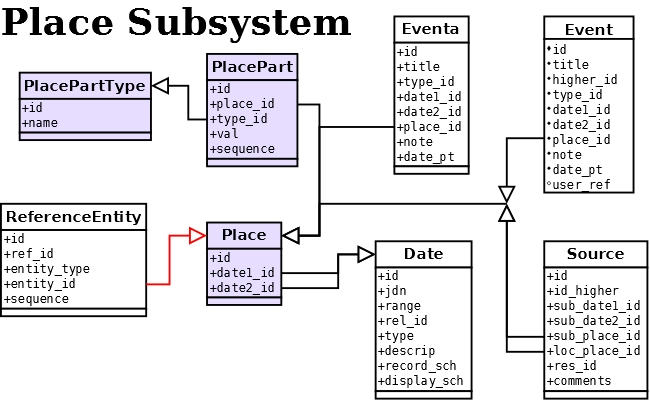
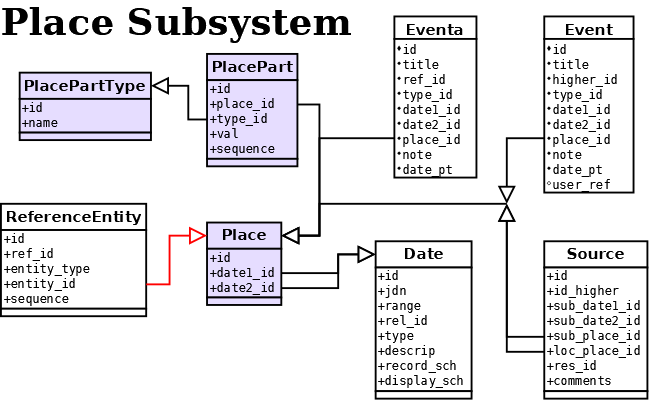
rec Library, update database to version TFPD-0.0.10.18.
Update website and diagrams.

Changed region(s): [[0.4923, 0.03, 0.7385, 0.45]]

diff --git a/website/db/dbdesign.htm b/website/db/dbdesign.htm
@@ -357,6 +357,11 @@
      <td>The name of the Event, such as "Marriage of John Smith and Mary Jones".</td>
     </tr>
     <tr>
+     <td>ref_id</td>
+     <td>Integer Not null FK</td>
+     <td>The Reference Document that was the source of the Eventa.</td>
+    </tr>
+    <tr>
      <td>type_id</td>
      <td>Integer Not null FK</td>
      <td>Unique identifier that indicates to which Event Type this eventa belongs.</td>
@@ -1158,7 +1163,7 @@
     <tr>
      <td>entity_type</td>
      <td>Integer</td>
-     <td>A value indicating the Entity type, 1=Source, 2=Event, 3=Place, 4=Date, 5=Relationship, 6=Attribute</td>
+     <td>A value indicating the Entity type, 1=Source, 3=Place, 4=Date, 7=Name</td>
     </tr>
     <tr>
      <td>entity_id</td>

diff --git a/src/rec/recUpgrade.cpp b/src/rec/recUpgrade.cpp
@@ -41,8 +41,8 @@
 const int recVerMajor    = 0;
 const int recVerMinor    = 0;
 const int recVerRev      = 10;
-const int recVerTest     = 17;                              // <<======<<<<
-const wxStringCharType* recVerStr = wxS("TFPD-0.0.10.17");  // <<======<<<<
+const int recVerTest     = 18;                              // <<======<<<<
+const wxStringCharType* recVerStr = wxS("TFPD-0.0.10.18");  // <<======<<<<
 
 //============================================================================
 //                 Code to upgrade old versions
@@ -697,7 +697,7 @@ void UpgradeTest0_0_10_15to0_0_10_16()
 
 void UpgradeTest0_0_10_16to0_0_10_17()
 {
-    // Version 0.0.10.16 to 0.0.10.16
+    // Version 0.0.10.16 to 0.0.10.17
     // Add EventType and EventTypeRole records for Media Event.
 
     char* query =
@@ -709,6 +709,45 @@ void UpgradeTest0_0_10_16to0_0_10_17()
         "INSERT INTO EventTypeRole (id, type_id, prime, official, name) VALUES(-90, -23, 0, 0, 'Commentator');\n"
 
         "UPDATE Version SET test=17 WHERE id=1;\n"
+        "COMMIT;\n"
+        ;
+    recDb::GetDb()->ExecuteUpdate( query );
+}
+
+void UpgradeTest0_0_10_17to0_0_10_18()
+{
+    // Version 0.0.10.17 to 0.0.10.18
+    // Add ref_id field to Eventa records.
+    // Remove Eventa records from ReferenceEntity table.
+
+    char* query =
+        "BEGIN;\n"
+
+        "ALTER TABLE Eventa RENAME TO OldEventa;\n"
+        "CREATE TABLE Eventa (\n"
+        "  id INTEGER PRIMARY KEY,\n"
+        "  title TEXT NOT NULL,\n"
+        "  ref_id INTEGER NOT NULL REFERENCES Reference(id),\n"
+        "  type_id INTEGER NOT NULL REFERENCES EventType(id),\n"
+        "  date1_id INTEGER NOT NULL,\n"
+        "  date2_id INTEGER NOT NULL,\n"
+        "  place_id INTEGER NOT NULL,\n"
+        "  note TEXT NOT NULL,\n"
+        "  date_pt INTEGER NOT NULL\n"
+        ");\n"
+
+        "INSERT INTO Eventa\n"
+        " (id, title, ref_id, type_id, date1_id, date2_id,\n"
+        "  place_id, note, date_pt)\n"
+        " SELECT E.id, E.title, RE.ref_id, E.type_id, E.date1_id,\n"
+        "  E.date2_id, E.place_id, E.note, E.date_pt\n"
+        " FROM OldEventa E, ReferenceEntity RE\n"
+        " WHERE E.id=RE.entity_id AND RE.entity_type=2;\n"
+        "DROP TABLE OldEventa;\n"
+
+        "DELETE FROM ReferenceEntity WHERE entity_type=2;\n"
+
+        "UPDATE Version SET test=18 WHERE id=1;\n"
         "COMMIT;\n"
         ;
     recDb::GetDb()->ExecuteUpdate( query );
@@ -735,6 +774,7 @@ void UpgradeRev0_0_10toCurrent( int test )
     case 14: UpgradeTest0_0_10_14to0_0_10_15();
     case 15: UpgradeTest0_0_10_15to0_0_10_16();
     case 16: UpgradeTest0_0_10_16to0_0_10_17();
+    case 17: UpgradeTest0_0_10_17to0_0_10_18();
     }
 }
 

diff --git a/src/rec/recDatabaseCreate.h b/src/rec/recDatabaseCreate.h
@@ -85,6 +85,7 @@ static const char* createdb =  /* recCreate.sql */
  "CREATE TABLE Eventa (\n"
  "  id INTEGER PRIMARY KEY,\n"
  "  title TEXT NOT NULL,\n"
+ "  ref_id INTEGER NOT NULL REFERENCES Reference(id),\n"
  "  type_id INTEGER NOT NULL REFERENCES EventType(id),\n"
  "  date1_id INTEGER NOT NULL,\n"
  "  date2_id INTEGER NOT NULL,\n"
@@ -466,7 +467,7 @@ static const char* createdb =  /* recCreate.sql */
  "INSERT INTO System (id, val) VALUES(1, '1');\n"
  "INSERT INTO UserSetting (id, user_id, property, val) VALUES(1, 0, 1, 'F1');\n"
  "INSERT INTO UserSetting (id, user_id, property, val) VALUES(2, 1, 1, 'F1');\n"
- "INSERT INTO Version (id, major, minor, revision, test) VALUES(1, 0, 0, 10, 17);\n"
+ "INSERT INTO Version (id, major, minor, revision, test) VALUES(1, 0, 0, 10, 18);\n"
  "COMMIT;\n";
 
 /* End of recDatabaseCreate.f2c */
